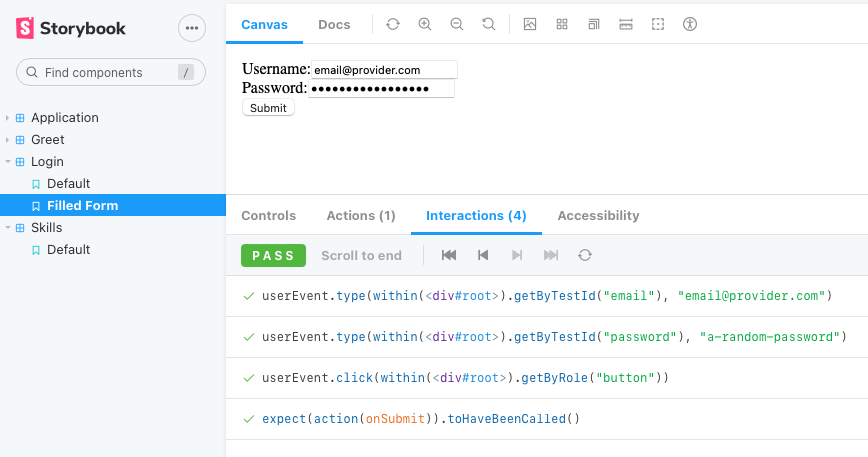
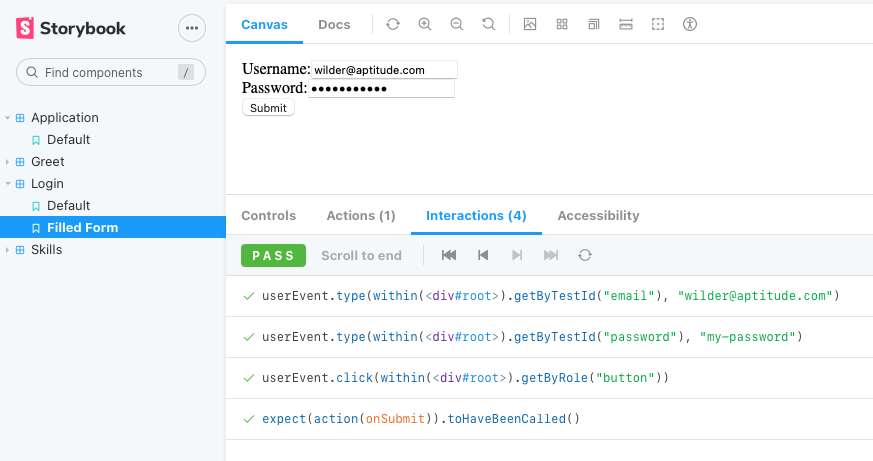
update interaction data example

diff --git a/src/stories/login.stories.tsx b/src/stories/login.stories.tsx
@@ -28,9 +28,9 @@ FilledForm.play = async ({ args, canvasElement }) => {
   const canvas = within(canvasElement);
 
   // Simulate interactions with the component
-  await userEvent.type(canvas.getByTestId('email'), 'email@provider.com');
+  await userEvent.type(canvas.getByTestId('email'), 'wilder@aptitude.com');
 
-  await userEvent.type(canvas.getByTestId('password'), 'a-random-password');
+  await userEvent.type(canvas.getByTestId('password'), 'my-password');
 
   await userEvent.click(canvas.getByRole('button'));
 
